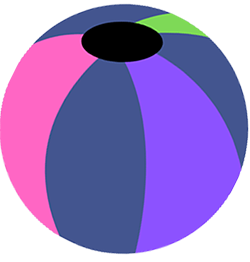
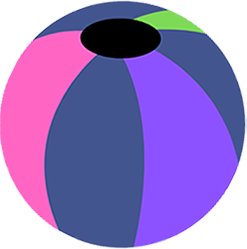
media query changed

diff --git a/css/index.css b/css/index.css
@@ -1,4 +1,4 @@
-@media only screen and (max-width: 768px) 
+@media only screen and (max-width: 480px) 
     /*For mobile phones: */ {
 
         .mainHeader {
@@ -39,7 +39,7 @@
         }
 
         .ball {
-            max-width: 100px; 
+            max-height: 100px; 
         }
 
         .dog {
@@ -53,17 +53,35 @@
             max-height: 80px;
         }
 
+        /*.blackHairedCoder {
+            position: absolute!important;
+            transition: all 1s linear!important;
+            -webkit-transition: all 1s linear!important;
+            -moz-transition: all 1s linear!important; 
+            -o-transition: all 1s linear!important;
+        }
+
+        .moveDiagonal {
+            transform: translate(30px,20px)!important;
+            -webkit-transform: translate(30px,20px)!important;
+            -o-transform: translate(30px,20px)!important; 
+            -moz-transform: translate(30px,20px)!important;
+        }*/
+
         .partFour {
             max-height: 222px;
         }
 
         .kennel {
+            background-image: url(../image/pruebas/casetaMediaQuery.png)!important;
             max-height: 175px;
+            max-width: 175px;
         }
 
         .bigBall {
-            background-image: url(../image/pruebas/ballGrande.png);
+            background-image: url(../image/pruebas/ballMediaQuery.png)!important;
             max-height: 175px;
+            max-width: 175px;
         }
 
         }
@@ -171,8 +189,7 @@ button {
 }
 
 .ball {
-    width: auto;
-    height: auto;
+    height: 50%;
     padding:  0 20px;
     border: violet 1px solid;
     display: flex;
@@ -238,8 +255,8 @@ button {
 .kennel {
     background-image: url(../image/pruebas/caseta.png);
     border: rgb(83, 12, 31) 1px solid;
-    height: 250px;
-    width: 250px;
+    height: 245px;
+    width: 245px;
 }
 
 .ballList {
@@ -247,16 +264,10 @@ button {
     flex-direction: row;
     flex-wrap: wrap;
     height: 250px;
-}
-
-ul {
-    border: #ff66c4 1px solid;
-    height: 250px;
     font-family: "Montserrat";
     font-weight: bold;
     font-size: 1vw;
     color: rgb(7, 7, 7);
-    list-style: none;
 }
 
 /*footer*/
